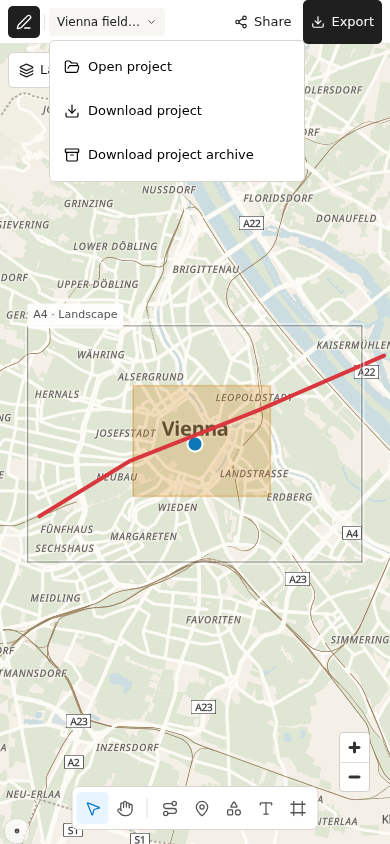
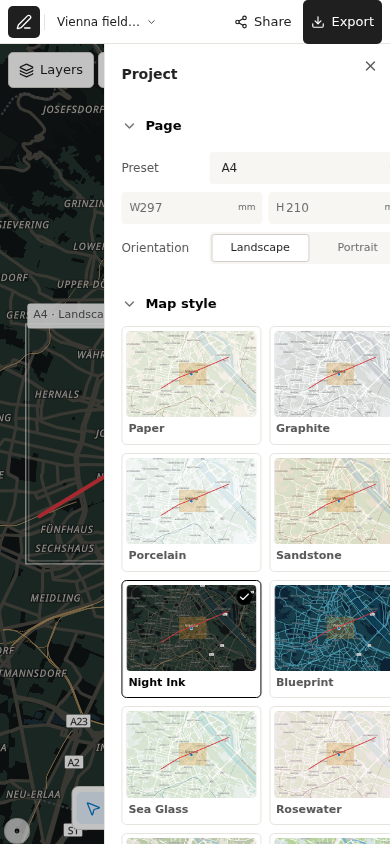
[verified] simplify sidebar style gallery

diff --git a/src/styles.css b/src/styles.css
@@ -348,13 +348,16 @@ button:focus-visible, input:focus-visible, select:focus-visible {
 .inspector-accordion h3 > button[aria-expanded="true"] { min-height: 2.75rem; }
 .inspector-accordion h3 > button:hover { background: var(--studio-hover); }
 .inspector-chevron {
-  align-self: start;
-  margin-top: 0.0625rem;
+  grid-column: 1;
+  grid-row: 1;
+  align-self: center;
   color: var(--studio-text-muted);
   transition: transform 120ms ease-out;
 }
 .inspector-accordion h3 > button[aria-expanded="true"] .inspector-chevron { transform: rotate(90deg); }
 .inspector-section-label {
+  grid-column: 2;
+  grid-row: 1;
   color: var(--studio-text-strong);
   font-size: var(--studio-font-control);
   font-weight: 600;
@@ -362,6 +365,8 @@ button:focus-visible, input:focus-visible, select:focus-visible {
 }
 .inspector-section-summary {
   @apply min-w-0 overflow-hidden text-ellipsis whitespace-nowrap;
+  grid-column: 2;
+  grid-row: 2;
   color: var(--studio-text-muted);
   font-size: var(--studio-font-meta);
   font-weight: 400;
@@ -380,17 +385,6 @@ button:focus-visible, input:focus-visible, select:focus-visible {
 }
 .property-control { @apply min-w-0; color: var(--studio-text); }
 .map-style-picker { @apply pb-2; }
-.map-style-filters { @apply mb-2 flex flex-wrap gap-1; }
-.map-style-filters button {
-  @apply px-2;
-  min-height: 2rem;
-  border-radius: var(--studio-radius-sm);
-  color: var(--studio-text-muted);
-  background: var(--studio-field);
-  font-size: var(--studio-font-meta);
-}
-.map-style-filters button:hover { color: var(--studio-text); background: var(--studio-hover); }
-.map-style-filters button[aria-pressed="true"] { color: var(--studio-on-dark); background: var(--studio-text-strong); }
 .map-style-gallery { @apply grid grid-cols-3 gap-2; }
 .map-style-card {
   @apply min-w-0 p-1 text-left;
@@ -415,7 +409,6 @@ button:focus-visible, input:focus-visible, select:focus-visible {
 }
 .map-style-card[aria-checked="true"] .map-style-card-check { @apply grid; }
 .map-style-card-label { @apply block overflow-hidden text-ellipsis whitespace-nowrap px-0.5 pb-0.5 pt-1; font-size: var(--studio-font-meta); font-weight: 600; }
-.map-style-attribution { @apply mb-0 mt-2; color: var(--studio-text-subtle); font-size: var(--studio-font-meta); line-height: 1.3; }
 .property-control > input, .property-control select, .number-field, .color-field {
   @apply w-full;
   height: var(--studio-control-height);
@@ -976,7 +969,6 @@ button:focus-visible, input:focus-visible, select:focus-visible {
   }
   .mobile-drawer-close:hover { background: var(--studio-field); }
   .studio-checkbox, .studio-switch { min-height: 2.75rem; }
-  .map-style-filters button { min-height: 2.75rem; }
   .map-style-gallery { @apply grid-cols-2; }
 
   .tool-palette {

diff --git a/src/app/components/MapStyleGallery.tsx b/src/app/components/MapStyleGallery.tsx
@@ -1,20 +1,6 @@
 import { Check } from 'lucide-react';
-import { useMemo, useRef, useState } from 'react';
-import {
-  MAP_STYLE_PRESETS,
-  type MapStyleFamily,
-  type MapStylePreset,
-} from '../../domain/mapStylePresets';
-
-const MAP_STYLE_FAMILIES: readonly { id: 'all' | MapStyleFamily; label: string }[] = [
-  { id: 'all', label: 'All' },
-  { id: 'minimal', label: 'Minimal' },
-  { id: 'editorial', label: 'Editorial' },
-  { id: 'dark', label: 'Dark' },
-  { id: 'soft', label: 'Soft' },
-  { id: 'natural', label: 'Natural' },
-  { id: 'playful', label: 'Playful' },
-];
+import { useRef } from 'react';
+import { MAP_STYLE_PRESETS, type MapStylePreset } from '../../domain/mapStylePresets';
 
 type MapStyleGalleryProps = {
   selectedPreset: MapStylePreset;
@@ -22,14 +8,9 @@ type MapStyleGalleryProps = {
 };
 
 export function MapStyleGallery({ selectedPreset, onSelect }: MapStyleGalleryProps) {
-  const [family, setFamily] = useState<'all' | MapStyleFamily>('all');
   const cardRefs = useRef(new Map<MapStylePreset, HTMLButtonElement>());
-  const visiblePresets = useMemo(() => (
-    family === 'all' ? MAP_STYLE_PRESETS : MAP_STYLE_PRESETS.filter((preset) => preset.family === family)
-  ), [family]);
-  const tabStop = visiblePresets.some(({ id }) => id === selectedPreset)
-    ? selectedPreset
-    : visiblePresets[0]?.id;
+  const visiblePresets = MAP_STYLE_PRESETS;
+  const tabStop = selectedPreset;
 
   const moveFocus = (currentIndex: number, direction: 'first' | 'last' | number) => {
     let nextIndex: number;
@@ -42,19 +23,6 @@ export function MapStyleGallery({ selectedPreset, onSelect }: MapStyleGalleryPro
 
   return (
     <div className="map-style-picker">
-      <div aria-label="Map style theme families" className="map-style-filters" role="toolbar">
-        {MAP_STYLE_FAMILIES.map((option) => (
-          <button
-            key={option.id}
-            aria-label={`${option.label} theme${option.id === 'all' ? 's' : ''}`}
-            aria-pressed={family === option.id}
-            type="button"
-            onClick={() => setFamily(option.id)}
-          >
-            {option.label}
-          </button>
-        ))}
-      </div>
       <div aria-label="Map style presets" className="map-style-gallery" role="radiogroup">
         {visiblePresets.map((preset, index) => (
           <button
@@ -90,7 +58,6 @@ export function MapStyleGallery({ selectedPreset, onSelect }: MapStyleGalleryPro
           </button>
         ))}
       </div>
-      <p className="map-style-attribution">Preview data © OpenStreetMap contributors · OpenFreeMap</p>
     </div>
   );
 }

diff --git a/tests/e2e/sidebar-visual-cleanup.spec.ts b/tests/e2e/sidebar-visual-cleanup.spec.ts
@@ -1,0 +1,42 @@
+import { expect, test } from '@playwright/test';
+
+const accordionGeometry = async (page: import('@playwright/test').Page) => page
+  .locator('.inspector-accordion h3 > button')
+  .evaluateAll((buttons) => buttons.map((button) => {
+    const chevron = button.querySelector('.inspector-chevron')!.getBoundingClientRect();
+    const label = button.querySelector('.inspector-section-label')!.getBoundingClientRect();
+    const summary = button.querySelector('.inspector-section-summary')?.getBoundingClientRect();
+    return {
+      centerDelta: Math.abs((chevron.y + chevron.height / 2) - (label.y + label.height / 2)),
+      labelX: label.x,
+      summaryX: summary?.x,
+    };
+  }));
+
+test('aligns every inspector chevron with its title', async ({ page }) => {
+  await page.goto('/');
+  await expect(page.getByTestId('map-canvas')).toHaveAttribute('data-map-ready', 'true', { timeout: 20_000 });
+
+  const initialGeometry = await accordionGeometry(page);
+  for (const geometry of initialGeometry) {
+    expect(geometry.centerDelta).toBeLessThanOrEqual(1);
+    if (geometry.summaryX !== undefined) expect(geometry.summaryX).toBe(geometry.labelX);
+  }
+
+  await page.getByRole('button', { name: 'Map style' }).click();
+  const collapsedGeometry = await accordionGeometry(page);
+  for (const geometry of collapsedGeometry) {
+    expect(geometry.centerDelta).toBeLessThanOrEqual(1);
+    if (geometry.summaryX !== undefined) expect(geometry.summaryX).toBe(geometry.labelX);
+  }
+});
+
+test('keeps map styles preview-first without duplicate gallery attribution', async ({ page }) => {
+  await page.goto('/');
+  await expect(page.getByTestId('map-canvas')).toHaveAttribute('data-map-ready', 'true', { timeout: 20_000 });
+
+  await expect(page.getByRole('toolbar', { name: 'Map style theme families' })).toHaveCount(0);
+  await expect(page.getByRole('radiogroup', { name: 'Map style presets' }).getByRole('radio')).toHaveCount(12);
+  await expect(page.locator('.map-style-attribution')).toHaveCount(0);
+  await expect(page.locator('.maplibregl-ctrl-attrib')).toBeVisible();
+});

diff --git a/tests/e2e/map-style-gallery.spec.ts b/tests/e2e/map-style-gallery.spec.ts
@@ -28,13 +28,7 @@ test('chooses original map presets through the responsive thumbnail gallery', as
     return { complete: image.complete, height: image.naturalHeight, width: image.naturalWidth };
   }));
   expect(thumbnailMetrics).toEqual(Array.from({ length: 12 }, () => ({ complete: true, height: 144, width: 216 })));
-  const filterHeights = await page.getByRole('toolbar', { name: 'Map style theme families' }).getByRole('button').evaluateAll(
-    (buttons) => buttons.map((button) => button.getBoundingClientRect().height),
-  );
-  expect(Math.min(...filterHeights)).toBeGreaterThanOrEqual(32);
 
-  await page.getByRole('button', { name: 'Dark theme' }).click();
-  await expect(gallery.getByRole('radio')).toHaveCount(2);
   const nightInk = gallery.getByRole('radio', { name: /^Night Ink:/ });
   const blueprint = gallery.getByRole('radio', { name: /^Blueprint:/ });
   await nightInk.focus();
@@ -81,10 +75,6 @@ test('chooses original map presets through the responsive thumbnail gallery', as
   expect(await gallery.evaluate((element) => getComputedStyle(element).gridTemplateColumns.split(' ').length)).toBe(2);
   expect(await page.evaluate(() => document.body.scrollWidth - innerWidth)).toBe(0);
   expect(await propertiesDialog.evaluate((element) => element.scrollWidth - element.clientWidth)).toBe(0);
-  const mobileFilterHeights = await page.getByRole('toolbar', { name: 'Map style theme families' }).getByRole('button').evaluateAll(
-    (buttons) => buttons.map((button) => button.getBoundingClientRect().height),
-  );
-  expect(Math.min(...mobileFilterHeights)).toBeGreaterThanOrEqual(44);
   if (testInfo.project.name === 'chromium') await page.screenshot({ path: 'docs/screenshots/latest-mobile.png' });
   expect(consoleProblems).toEqual([]);
 });

diff --git a/tests/unit/app/map-style-gallery.test.tsx b/tests/unit/app/map-style-gallery.test.tsx
@@ -10,17 +10,16 @@ describe('map style preset gallery', () => {
     exportMocks.exporter = null;
   });
 
-  it('filters twelve presets and selects one as a single undoable project change', async () => {
+  it('shows twelve preview-first presets and selects one as a single undoable project change', async () => {
     const user = userEvent.setup();
     render(<App />);
 
     expect(screen.queryByRole('combobox', { name: 'Map style' })).not.toBeInTheDocument();
+    expect(screen.queryByRole('toolbar', { name: 'Map style theme families' })).not.toBeInTheDocument();
+    expect(screen.queryByText(/Preview data/)).not.toBeInTheDocument();
     const gallery = screen.getByRole('radiogroup', { name: 'Map style presets' });
     expect(within(gallery).getAllByRole('radio')).toHaveLength(12);
     expect(within(gallery).getByRole('radio', { name: /Paper/ })).toBeChecked();
-
-    await user.click(screen.getByRole('button', { name: 'Dark theme' }));
-    expect(within(gallery).getAllByRole('radio')).toHaveLength(2);
     expect(within(gallery).getByRole('radio', { name: /Night Ink/ })).toBeVisible();
     expect(within(gallery).getByRole('radio', { name: /Blueprint/ })).toBeVisible();
 

diff --git a/docs/FINDINGS.md b/docs/FINDINGS.md
@@ -900,3 +900,14 @@ Return to feature breadth next: deliver one bounded municipality/region catalogu
[1 lines of base64/hex data omitted]
 - The initial independent fail-closed review rejected unconditional async focus restoration and wording that could be read as automating the native operating-system share sheet. Focus now returns only from a neutral/owned target and never steals an intentional move; the evidence now distinguishes the injected Web Share contract from the real browser download fallback. The bounded independent recheck passed both blockers and independently reran the five share-button regressions with no remaining security or logic concern.
 - This is the first slice after the Vienna municipality milestone, so its 640-test/build/audit/full-Chromium evidence remains retained under the five-slice policy. The next slice is the final three-engine nominal completion flow and wider mission-gate review. `docs/COMPLETE.md` remains absent.
+
+### 2026-08-24 — Preview-first style gallery and exact accordion alignment (targeted verification complete)
+
+- Live inspection reproduced the reported sidebar defect rather than inferring it from CSS: every expanded accordion chevron center was 5 px above its title center at 1280×577, and collapsed summaries were auto-placed in the chevron column. The textual theme-family toolbar occupied two rows in the 304 px inspector, and the gallery repeated `Preview data © OpenStreetMap contributors · OpenFreeMap` below thumbnails even though the live map already exposed its required attribution control.
+- Accordion grid placement is now explicit: chevron and title share the first row and measure a 0 px center delta in every expanded/collapsed section; collapsed summaries occupy the second row aligned exactly to the title column. The 12-style gallery is directly preview-first at 3 desktop / 2 mobile columns, with existing concise single-line card labels, full accessible names, selection check, Arrow/Home/End behavior and Undo/export semantics preserved.
+- Removed only the redundant textual family-filter toolbar and gallery-level attribution. Mandatory provider/data attribution remains visible on the live MapLibre map and remains unchanged in PNG/SVG/PDF output contracts.
+- Strict RED/GREEN evidence: the new Chromium geometry test first received a 5 px center delta against the ≤1 px contract; the preview-first test first found one theme toolbar; and the focused component test first failed looking for the removed Dark filter. Each passed after the minimal implementation and expectation update.
+- Fresh targeted verification: two related unit files pass 4/4; typecheck passes; ESLint passes with zero warnings; React Doctor reports no issues; the map-gallery plus visual-cleanup Chromium flows pass 3/3 serially with all 12 thumbnails, desktop/mobile containment, exact alignment, live map attribution and clean gallery hierarchy.
[1 lines of base64/hex data omitted]
+- Independent fail-closed review approved the staged slice with no security, logic, accessibility, interaction, visual or test-coverage blocker. It independently reran three focused unit assertions, measured 0 px chevron/title deltas and exact summary indentation in both disclosure states, confirmed all 12 presets plus keyboard activation, and verified the staged screenshot dimensions/hashes.
+- The longer final three-engine release gate was paused to avoid concurrent worktree edits. Its unrelated unstaged runner/config/test changes were preserved outside this slice and must be resumed only after this focused commit. `docs/COMPLETE.md` remains absent.

diff --git a/docs/UI_BRIEF.md b/docs/UI_BRIEF.md
@@ -62,8 +62,8 @@ Use the supplied Felt sidebar as a quality reference for calm density, not as br
 
 Use the Mapiful editor as an interaction reference for making many visual choices approachable, without copying its names, code, thumbnails, tile endpoints, or proprietary assets.
 
-- Separate a small set of curated **theme families** from concrete **map styles**. Theme families organize intent such as Minimal, Editorial, Dark, Soft, Natural, and Playful; style cards are the actual canonical MapLibre presets saved in the project.
-- Replace the narrow style dropdown with an accordion gallery: quiet theme-family filters followed by a responsive 3-column desktop / 2-column mobile grid of visual thumbnails. A selected style uses one clear dark outline/check state; unselected cards remain border-light.
+- Keep the Map style accordion preview-first: show the complete responsive 3-column desktop / 2-column mobile thumbnail grid directly, without a wrapping textual theme-family filter row. A selected style uses one clear dark outline/check state; unselected cards remain border-light. Keep each concise preset name on one ellipsized line and retain the full accessible name/description.
+- Do not repeat source attribution beneath the preset thumbnails; the live map already carries the required visible provider/data attribution. Mandatory attribution remains on the map and in exported artifacts where required.
 - Generate and own every preview from our open OpenFreeMap/OpenMapTiles style pipeline at one deterministic representative location. Do not ship screenshots or requests from Mapiful.
 - Build presets from named semantic tokens—canvas, land, water, parks, buildings, major/minor roads, boundaries, transit, labels, and halos—rather than ad-hoc color substitutions. Validate label contrast and visibility for each preset.
 - Start with a coherent collection of at least 10–12 genuinely distinct presets spanning monochrome, paper, dark, coastal, natural, warm, cool, and expressive treatments. Preserve language, text scale, feature visibility, camera, overlays, persistence, and native/SVG/PDF export when switching.

diff --git a/docs/MAP_STYLE_PRESET_PLAN.md b/docs/MAP_STYLE_PRESET_PLAN.md
@@ -17,9 +17,8 @@ Print Map Studio will provide an original visual preset gallery built entirely o
 
 ### Information architecture
 
-1. **Theme family filter** — a small intent-level grouping: Minimal, Editorial, Dark, Soft, Natural, Playful.
-2. **Map style cards** — actual canonical presets saved in the project and used by live rendering and print export.
-3. **Advanced map details** — existing language, text scale, and feature visibility remain independent controls below the gallery.
+1. **Map style cards** — actual canonical presets saved in the project and used by live rendering and print export, presented directly as previews without a separate textual family-filter row.
+2. **Advanced map details** — existing language, text scale, and feature visibility remain independent controls below the gallery.
 
 The gallery uses a 3-column desktop / 2-column mobile grid. Cards contain deterministic first-party thumbnails, an original preset name, and an accessible selected state. Unselected cards remain visually quiet; the selected card uses one dark outline/check. The grid must not create live MapLibre instances.
 
@@ -65,7 +64,7 @@ These are Print Map Studio concepts, not copies of external style names or palet
 - Implement one preset registry with stable IDs, family, label, description, semantic tokens, and thumbnail path.
 - Compile preset JSON from one same-origin base style at development/build time; generated styles remain deterministic and committed or hash-verified.
 - Generate all thumbnails from the same representative Vienna center/zoom, viewport, language, and visibility state. Commit bounded WebP/PNG thumbnails; do not fetch Mapiful previews at runtime.
-- Provide one shared attribution adjacent to the preview gallery for the underlying open map data.
+- Preview thumbnails do not repeat attribution in the inspector. The live map remains the visible source-attribution surface, while exports retain mandatory attribution according to their existing contract.
 - Keep thumbnail generation out of normal client startup and out of every test run.
 
 ## Interaction and persistence
